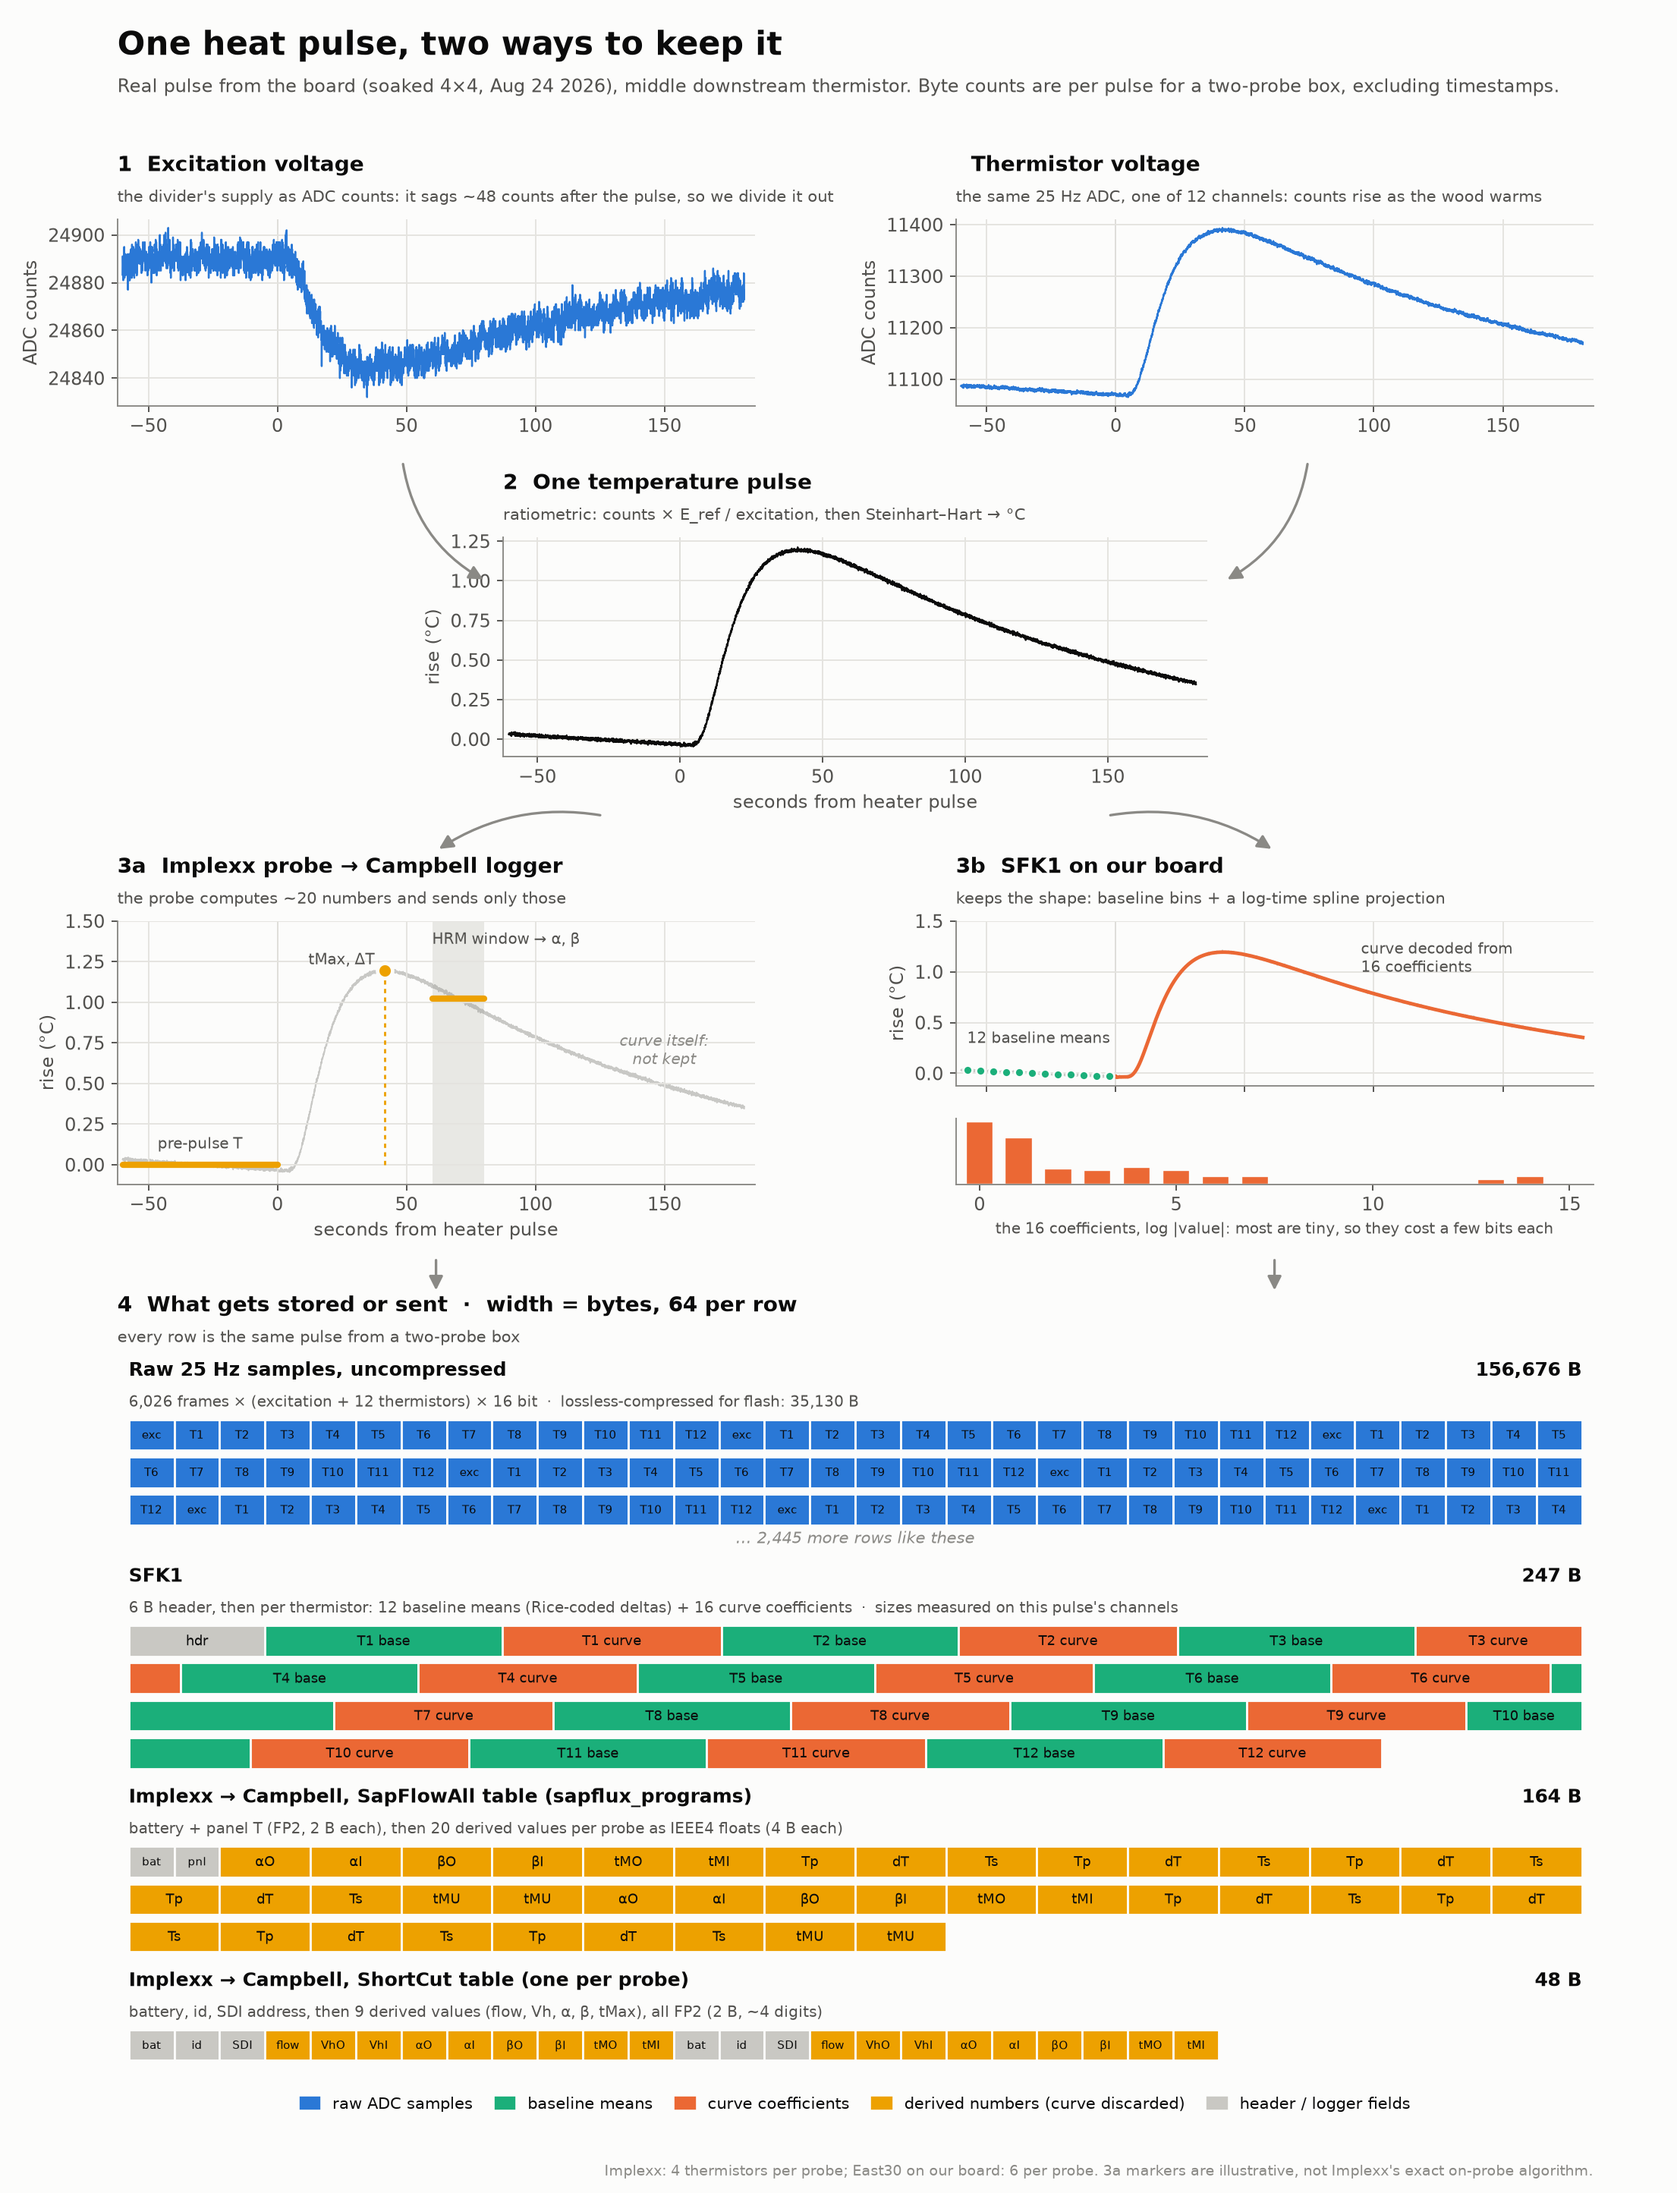
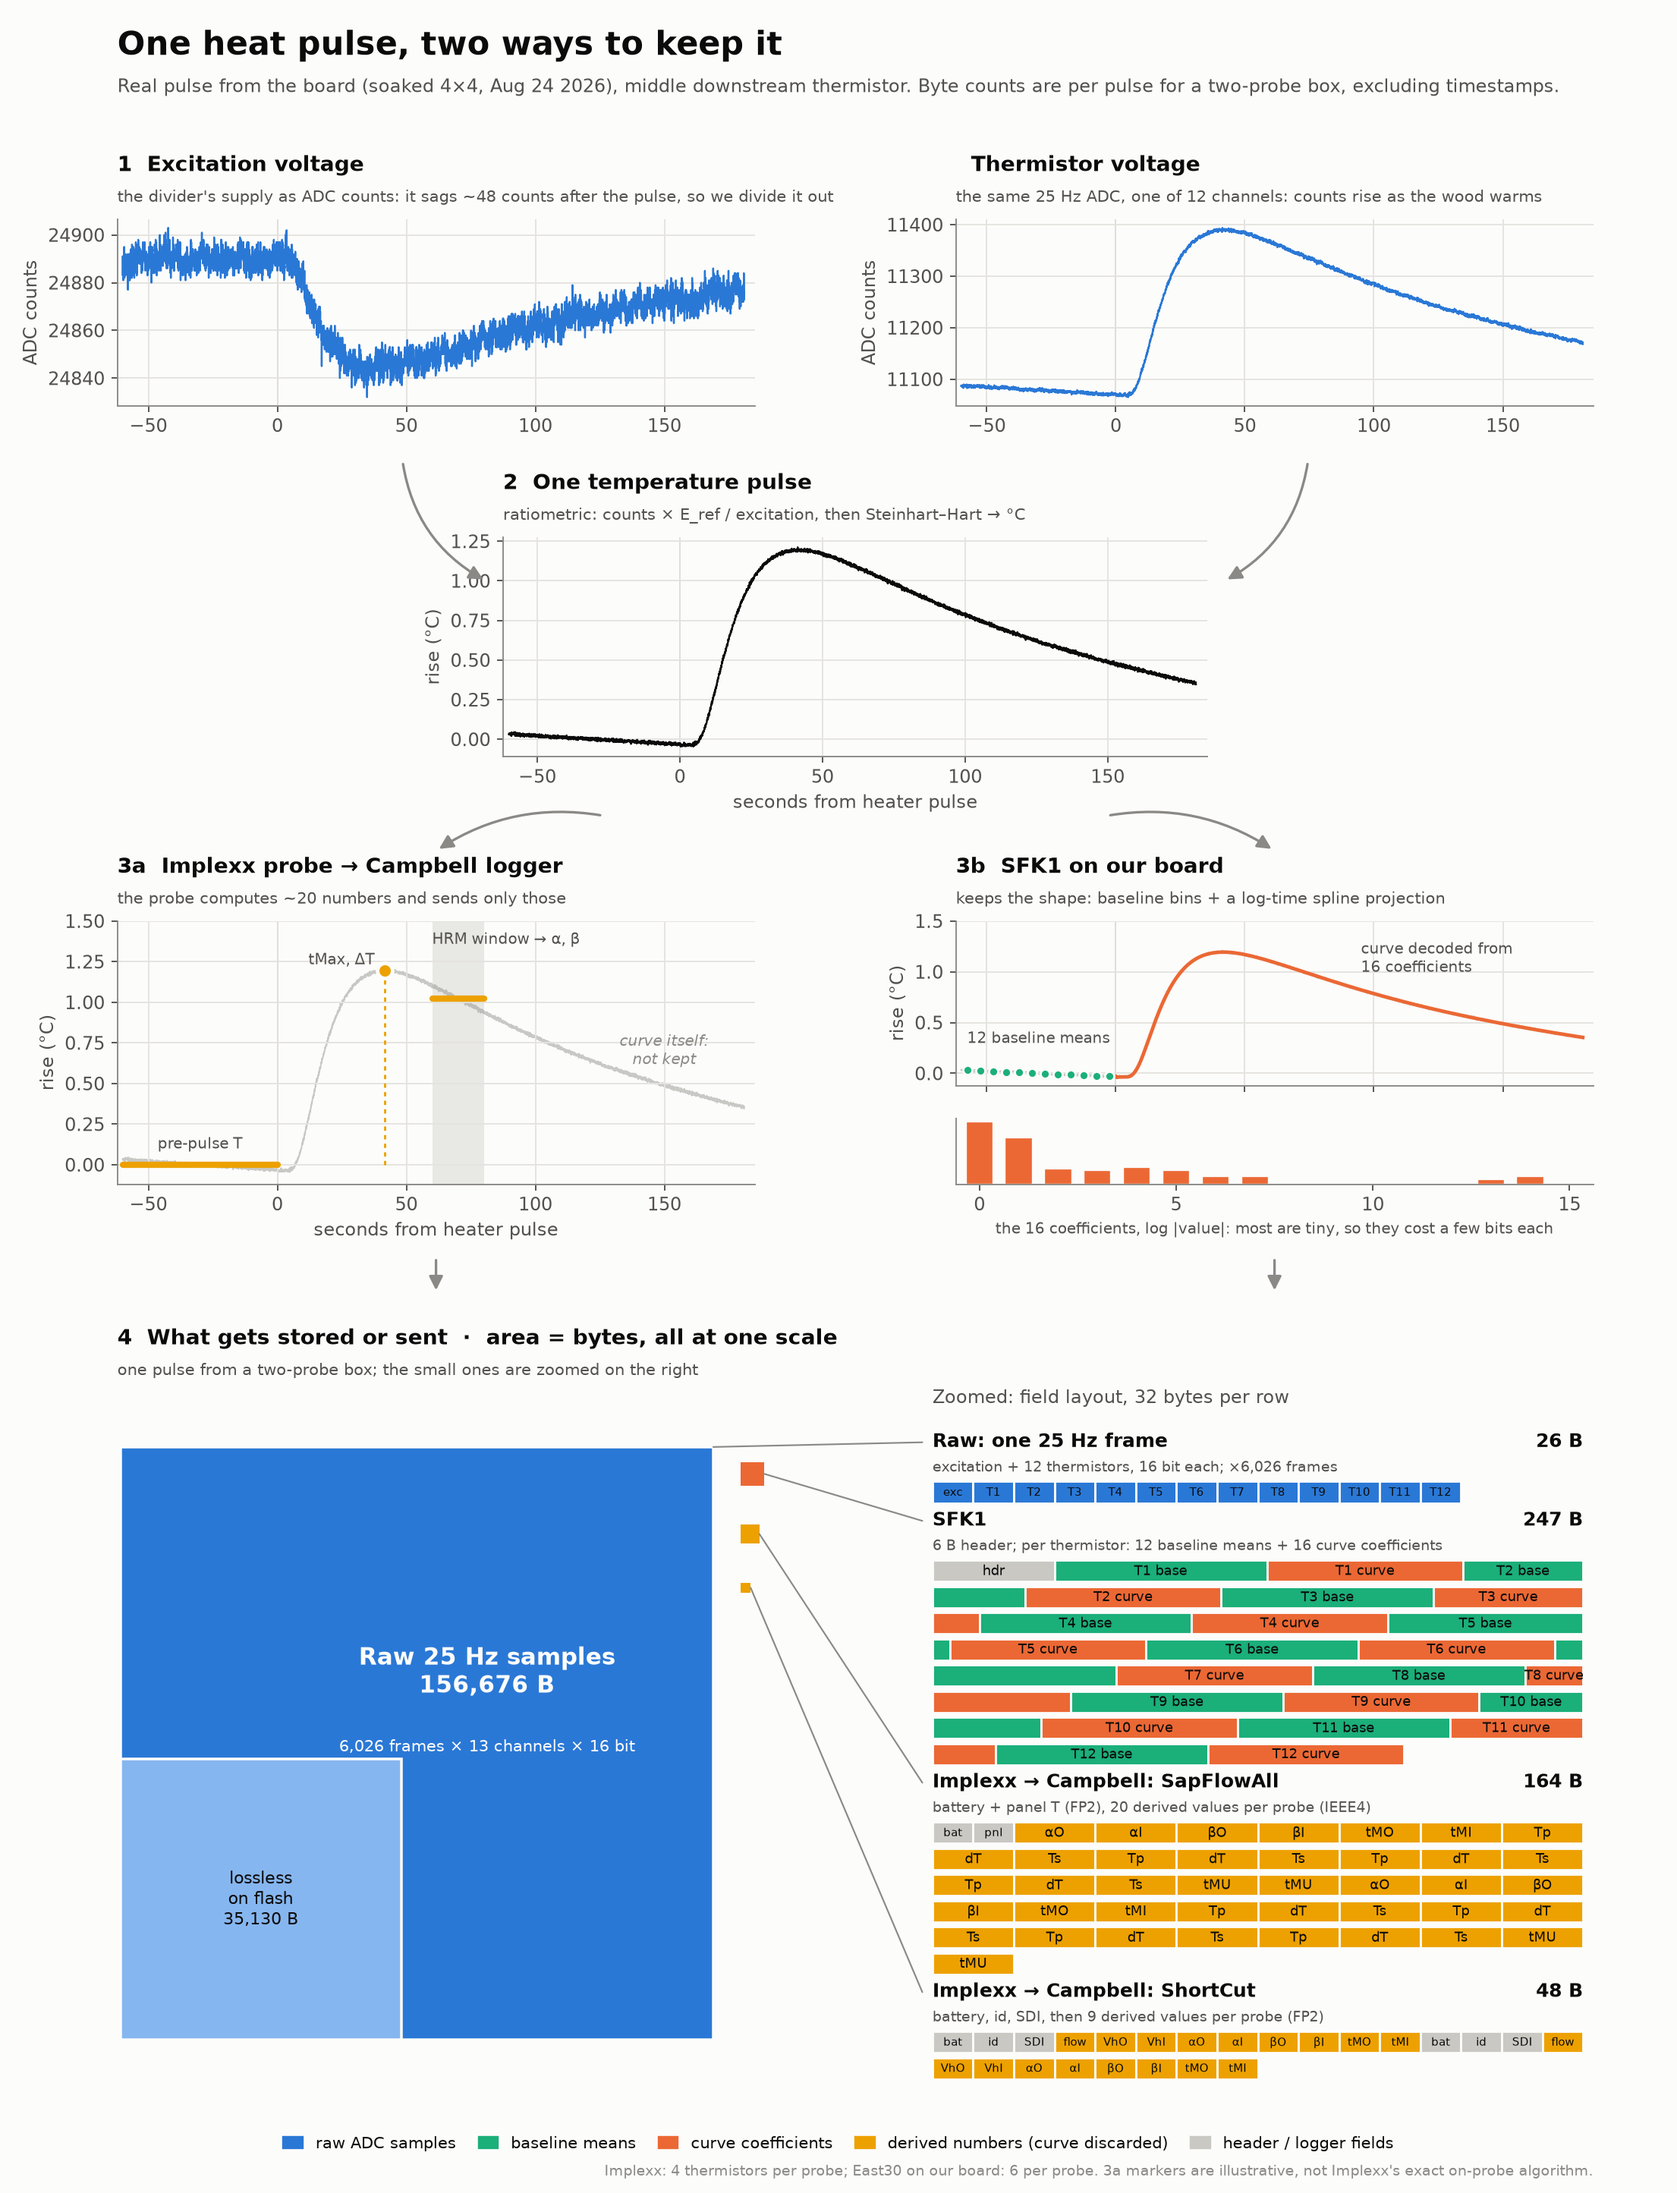
Size the byte formats by area in the SFK1 comparison figure
Section 4 now draws raw, lossless, SFK1, SapFlowAll and ShortCut as
squares with area proportional to bytes at one scale, with connectors
to zoomed field layouts of each record.

Changed region(s): [[0.0624, 0.5917, 0.9679, 0.9965]]

diff --git a/analysis/compression_research_20261024/make_fig_comparison.py b/analysis/compression_research_20261024/make_fig_comparison.py
@@ -22,7 +22,7 @@ import plotstyle as P
 warnings.filterwarnings("ignore")
 
 HRM_WINDOW = C.ALPHA_WINDOWS[1]  # (60, 80) s
-ROW_B = 64  # bytes per row in the packing diagram
+ROW_B = 32  # bytes per row in the zoomed field layouts
 
 # Information roles, one colour each (fixed order from the reference palette).
 RAW, CURVE, BASE, DERIVED = P.SERIES[0], P.SERIES[1], P.SERIES[2], P.SERIES[3]
@@ -97,7 +97,8 @@ def main() -> None:
     ax_imp = fig.add_axes([0.07, 0.46, 0.38, 0.12])
     ax_sfk = fig.add_axes([0.57, 0.505, 0.38, 0.075])
     ax_cof = fig.add_axes([0.57, 0.46, 0.38, 0.03])
-    ax_byt = fig.add_axes([0.07, 0.03, 0.88, 0.35])
+    ax_sq = fig.add_axes([0.07, 0.045, 0.40, 0.32])
+    ax_byt = fig.add_axes([0.55, 0.045, 0.40, 0.32])
 
     fig.text(0.07, 0.975, "One heat pulse, two ways to keep it", fontsize=18, weight="bold")
     fig.text(0.07, 0.958, "Real pulse from the board (soaked 4×4, Aug 24 2026), middle downstream thermistor. "
@@ -167,38 +168,65 @@ def main() -> None:
     ax_cof.grid(False)
     ax_cof.set_xlabel("the 16 coefficients, log |value|: most are tiny, so they cost a few bits each", fontsize=8.5)
 
-    # 4. Bytes
+    # 4. Bytes: squares with area = bytes, all at one scale
+    import matplotlib.patches as mp
+    from matplotlib.patches import ConnectionPatch
+
+    lossless_b = 35130
+    step(ax_sq, 4, "What gets stored or sent  ·  area = bytes, all at one scale",
+         "one pulse from a two-probe box; the small ones are zoomed on the right")
+    ax_sq.set_aspect("equal")
+    ax_sq.axis("off")
+    side = {k: float(np.sqrt(v)) for k, v in
+            (("raw", raw_b), ("lossless", lossless_b), ("sfk1", sfk1_b), ("sfa", 164), ("sc", 48))}
+    R = side["raw"]
+    ax_sq.add_patch(mp.Rectangle((0, 0), R, R, facecolor=RAW, edgecolor=P.SURFACE, linewidth=1.5))
+    L = side["lossless"]
+    ax_sq.add_patch(mp.Rectangle((0, 0), L, L, facecolor="#86b6ef", edgecolor=P.SURFACE, linewidth=1.5))
+    ax_sq.text(R / 2 + L / 4, R * 0.62, f"Raw 25 Hz samples\n{raw_b:,} B", ha="center", va="center",
+               fontsize=13, weight="bold", color=P.SURFACE)
+    ax_sq.text(R / 2 + L / 4, R * 0.62 - 50, f"{n_frames:,} frames × 13 channels × 16 bit", ha="center",
+               va="center", fontsize=9, color=P.SURFACE)
+    ax_sq.text(L / 2, L / 2, f"lossless\non flash\n{lossless_b:,} B", ha="center", va="center", fontsize=9.5,
+               color=P.INK)
+    small = (("sfk1", CURVE), ("sfa", DERIVED), ("sc", DERIVED))
+    sq_pos = {}
+    xs, ys = R + 18, R - 10
+    for k, col in small:
+        sd = side[k]
+        ys -= sd
+        ax_sq.add_patch(mp.Rectangle((xs, ys), sd, sd, facecolor=col, edgecolor="none"))
+        sq_pos[k] = (xs + sd, ys + sd / 2)
+        ys -= 26
+    ax_sq.set_xlim(-2, R + 50)
+    ax_sq.set_ylim(-2, R + 2)
+
+    # zoomed field layouts
     ax = ax_byt
     ax.set_xlim(-0.5, ROW_B + 0.5)
     ax.axis("off")
-    step(ax, 4, "What gets stored or sent  ·  width = bytes, 64 per row",
-         "every row is the same pulse from a two-probe box")
+    ax.text(0, -1.9, f"Zoomed: field layout, {ROW_B} bytes per row", fontsize=10, color=P.INK2)
     yrow = 0.0
+    anchors = {}
 
-    def label(title, nbytes, note):
+    def label(key, title, nbytes, note):
         nonlocal yrow
+        anchors[key] = yrow
         ax.text(0, yrow - 0.05, title, fontsize=10.5, weight="bold", va="bottom")
         ax.text(ROW_B, yrow - 0.05, f"{nbytes:,.0f} B", fontsize=10.5, weight="bold", ha="right", va="bottom")
-        ax.text(0, yrow + 0.75, note, fontsize=8.5, color=P.INK2, va="bottom")
-        yrow += 1.0
+        ax.text(0, yrow + 0.85, note, fontsize=8.2, color=P.INK2, va="bottom")
+        yrow += 1.1
 
-    label("Raw 25 Hz samples, uncompressed", raw_b,
-          f"{n_frames:,} frames × (excitation + 12 thermistors) × 16 bit  ·  lossless-compressed for flash: 35,130 B")
-    frame = [(2, RAW, "exc")] + [(2, RAW, f"T{k}") for k in range(1, 13)]
-    yrow = strip(ax, yrow, frame * 8, max_rows=3)
-    ax.text(ROW_B / 2, yrow + 0.3, f"… {raw_b / ROW_B - 3:,.0f} more rows like these", ha="center",
-            fontsize=9, color=P.MUTED, style="italic")
-    yrow += 1.5
+    label("raw", "Raw: one 25 Hz frame", 26, f"excitation + 12 thermistors, 16 bit each; ×{n_frames:,} frames")
+    yrow = strip(ax, yrow, [(2, RAW, "exc")] + [(2, RAW, f"T{k}") for k in range(1, 13)]) + 0.9
 
-    label("SFK1", sfk1_b, "6 B header, then per thermistor: 12 baseline means (Rice-coded deltas) + "
-          "16 curve coefficients  ·  sizes measured on this pulse's channels")
+    label("sfk1", "SFK1", sfk1_b, "6 B header; per thermistor: 12 baseline means + 16 curve coefficients")
     sf = [(6, META, "hdr")]
     for k in range(1, 13):
         sf += [(base_b, BASE, f"T{k} base"), (coef_b, CURVE, f"T{k} curve")]
     yrow = strip(ax, yrow, sf) + 0.9
 
-    label("Implexx → Campbell, SapFlowAll table (sapflux_programs)", 164,
-          "battery + panel T (FP2, 2 B each), then 20 derived values per probe as IEEE4 floats (4 B each)")
+    label("sfa", "Implexx → Campbell: SapFlowAll", 164, "battery + panel T (FP2), 20 derived values per probe (IEEE4)")
     sa = [(2, META, "bat"), (2, META, "pnl")]
     for _ in (1, 2):
         sa += [(4, DERIVED, n) for n in ("αO", "αI", "βO", "βI", "tMO", "tMI")]
@@ -206,21 +234,26 @@ def main() -> None:
         sa += [(4, DERIVED, "tMU"), (4, DERIVED, "tMU")]
     yrow = strip(ax, yrow, sa) + 0.9
 
-    label("Implexx → Campbell, ShortCut table (one per probe)", 48,
-          "battery, id, SDI address, then 9 derived values (flow, Vh, α, β, tMax), all FP2 (2 B, ~4 digits)")
+    label("sc", "Implexx → Campbell: ShortCut", 48, "battery, id, SDI, then 9 derived values per probe (FP2)")
     sc = []
     for _ in (1, 2):
         sc += [(2, META, n) for n in ("bat", "id", "SDI")]
         sc += [(2, DERIVED, n) for n in ("flow", "VhO", "VhI", "αO", "αI", "βO", "βI", "tMO", "tMI")]
     yrow = strip(ax, yrow, sc)
-    ax.set_ylim(yrow + 1.6, -0.6)
+    ax.set_ylim(yrow + 0.4, -2.3)
+
+    for k in ("sfk1", "sfa", "sc"):
+        fig.add_artist(ConnectionPatch(sq_pos[k], (-0.5, anchors[k] - 0.4), coordsA="data", coordsB="data",
+                                       axesA=ax_sq, axesB=ax, color=P.MUTED, linewidth=0.9))
+    fig.add_artist(ConnectionPatch((R, R), (-0.5, anchors["raw"] - 0.4), coordsA="data", coordsB="data",
+                                   axesA=ax_sq, axesB=ax, color=P.MUTED, linewidth=0.9))
 
     handles = [Patch(color=RAW, label="raw ADC samples"), Patch(color=BASE, label="baseline means"),
                Patch(color=CURVE, label="curve coefficients"),
                Patch(color=DERIVED, label="derived numbers (curve discarded)"),
                Patch(color=META, label="header / logger fields")]
-    ax.legend(handles=handles, loc="lower center", ncols=5, fontsize=9, bbox_to_anchor=(0.5, 0.0),
-              handlelength=1.2, columnspacing=1.4)
+    fig.legend(handles=handles, loc="lower center", ncols=5, fontsize=9, bbox_to_anchor=(0.5, 0.012),
+               handlelength=1.2, columnspacing=1.4, frameon=False)
     fig.text(0.95, 0.008, "Implexx: 4 thermistors per probe; East30 on our board: 6 per probe. "
              "3a markers are illustrative, not Implexx's exact on-probe algorithm.",
              fontsize=8, color=P.MUTED, ha="right")
